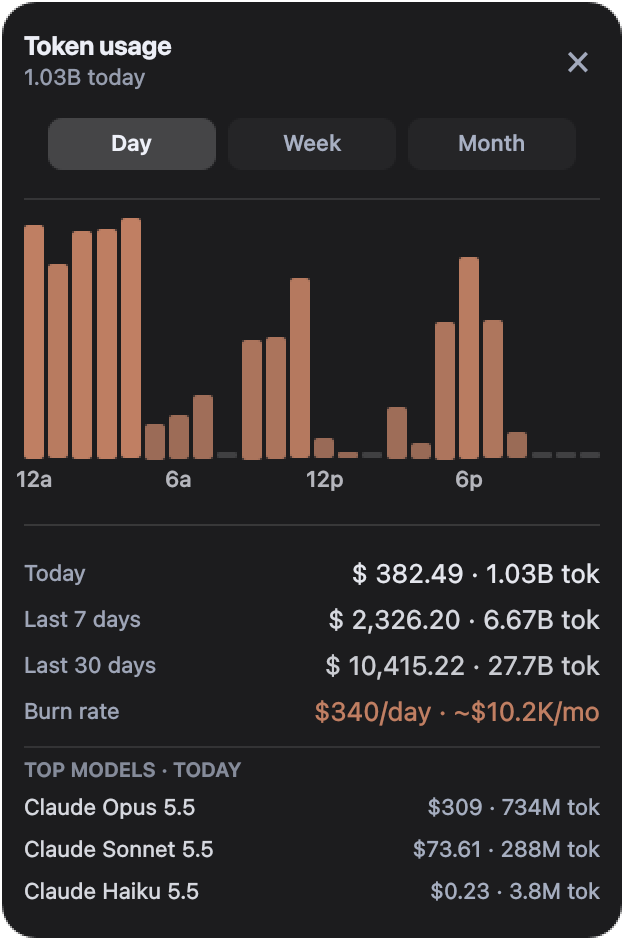
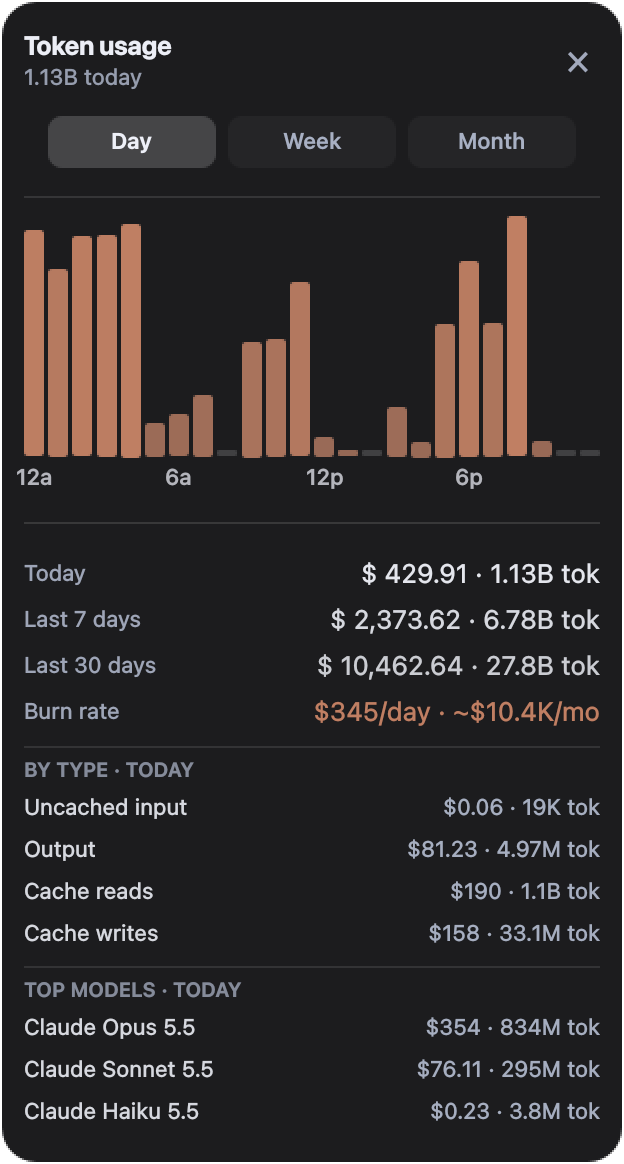
docs: README images with the usage-by-type split; steady tab switches in the GIF
The cost-popout GIF showed one frame per Day/Week/Month switch with the new
tab squeezed into the old tab's height: the popup window resizes a beat
after its content switches, and a grab could land in between. The demo walk
now waits for the card to reach its own size before grabbing, which is what
a compositor shows. Frame durations use a millisecond time base instead of
the image demuxer's 40 ms steps, which made every move stutter, and the
end-of-loop hold is 0.8 s.

The screenshots are re-rendered from live usage and show the By type list.

diff --git a/tools/preview/screenshot.qml b/tools/preview/screenshot.qml
@@ -507,7 +507,8 @@ Window {
         // QtTest is only needed here, so a plain render never depends on it.
         const events = Qt.createQmlObject("import QtTest; TestEvent {}", shot, "demoEvents");
         shot.demo = { card: card, overlay: overlay, events: events, steps: demoSteps(card),
-                      i: 0, stepAt: 0, pos: Qt.point(0, 0), clickAt: -1e9, start: Date.now(), frame: 0 };
+                      i: 0, stepAt: 0, pos: Qt.point(0, 0), clickAt: -1e9, start: Date.now(), frame: 0,
+                      resizingSince: -1 };
         demoTick();
     }
 
@@ -563,6 +564,24 @@ Window {
         d.overlay.hand = pointerShape(d.card) === Qt.PointingHandCursor;
         d.overlay.ring = (t - d.clickAt) < 380 ? (t - d.clickAt) / 380 : -1;
         const frames = shot.demoDir.length > 0;
+        // Right after a tab switch the card already holds the new tab while its window, and
+        // so the card, still has the old tab's size: the offscreen window resizes a beat
+        // later, and a grab then catches the new tab squeezed or stretched into the old
+        // height. A compositor never shows that state (it keeps the last frame until the
+        // resized one is drawn), so wait for the size to land and let the last frame stand.
+        const resizing = Math.abs(d.card.width - d.card.implicitWidth) >= 1
+                      || Math.abs(d.card.height - d.card.implicitHeight) >= 1;
+        if (resizing && !finished) {
+            if (d.resizingSince < 0)
+                d.resizingSince = t;
+            if (t - d.resizingSince < 1000) {
+                demoTimer.interval = 5;
+                demoTimer.restart();
+                return;
+            }
+            console.warn("walk: the flyout's size did not settle; grabbing anyway");
+        }
+        d.resizingSince = -1;
         if (!frames && !finished) {
             // A single-PNG walk only grabs its last state.
             demoTimer.interval = shot.demoFrameMs;

diff --git a/tools/preview/demo_gif.py b/tools/preview/demo_gif.py
@@ -29,8 +29,12 @@ CURSOR_THEME = Path("/usr/share/icons/breeze_cursors/cursors")
 CURSORS = {"arrow": "default", "hand": "pointing_hand"}
 XCURSOR_IMAGE = 0xFFFD0002
 FRAME_NAME = re.compile(r"^f-(\d+)-(\d+)\.png$")
-LAST_FRAME_SECONDS = 0.4
+END_HOLD_SECONDS = 0.8  # the last frame's rest before the GIF loops
 CANVAS = "0x141416"  # screenshot.qml demoCanvas
+# Read each frame in a millisecond time base. The image demuxer's default 25 fps time base
+# rounds every duration to 40 ms steps, so ~50 ms frames played as 40, 40, 40, 40, 80: a
+# stutter in every move. In 1 ms steps the GIF's 10 ms delays keep the real cadence.
+MS_TIME_BASE = "option framerate 1000"
 
 
 def _xcursor_image(path: Path, nominal: int):
@@ -105,9 +109,11 @@ def assemble(frames_dir: str, out_gif: str, width: str) -> None:
     with tempfile.TemporaryDirectory() as tmp:
         listing = ["ffconcat version 1.0"]
         for i, (_, ms, path) in enumerate(frames):
-            seconds = (frames[i + 1][1] - ms) / 1000 if i + 1 < len(frames) else LAST_FRAME_SECONDS
-            listing += [f"file '{path.resolve()}'", f"duration {max(seconds, 0.02):.3f}"]
-        listing.append(f"file '{frames[-1][2].resolve()}'")  # the concat demuxer drops the last duration otherwise
+            seconds = (frames[i + 1][1] - ms) / 1000 if i + 1 < len(frames) else END_HOLD_SECONDS / 2
+            listing += [f"file '{path.resolve()}'", MS_TIME_BASE, f"duration {max(seconds, 0.02):.3f}"]
+        # The concat demuxer drops the last frame's duration unless the file is listed once
+        # more, and the GIF writer gives that repeat the same delay: the hold is split in two.
+        listing += [f"file '{frames[-1][2].resolve()}'", MS_TIME_BASE]
         concat = Path(tmp) / "frames.ffconcat"
         concat.write_text("\n".join(listing) + "\n")
         padded = Path(tmp) / "padded.mkv"

diff --git a/tools/preview/README.md b/tools/preview/README.md
@@ -103,7 +103,11 @@ With `demo=`, every tick (about 50 ms) writes a frame named `f-<n>-<ms>.png`,
 where `<ms>` is when it was grabbed. `demo_gif.py assemble` shows each frame until
 the next one's time, so the GIF plays at real speed even though frames land
 unevenly, and pads every frame to the tallest (the flyout changes height between
-tabs). Frames are opaque on purpose: demo mode paints a solid canvas behind the
+tabs). A tick that lands just after a tab switch, while the card already holds
+the new tab but its window still has the old tab's size, grabs nothing: that
+frame would show the new tab squeezed or stretched into the old height, a state a
+compositor never puts on screen, so the previous frame stays up until the resize
+lands. Frames are opaque on purpose: demo mode paints a solid canvas behind the
 card, because ffmpeg's GIF encoder stores only the changed pixels of opaque
 frames but every frame whole once there is transparency (19 MB instead of about
 0.7 MB).
